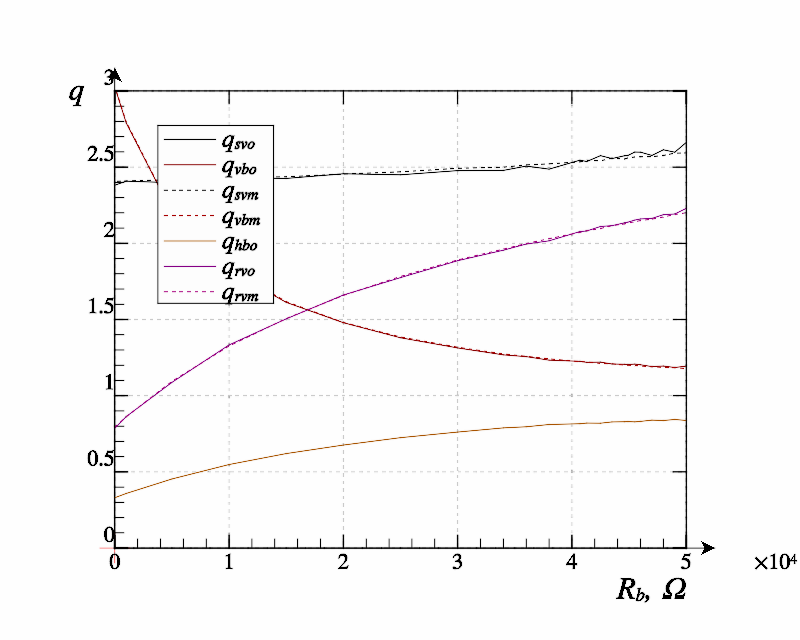
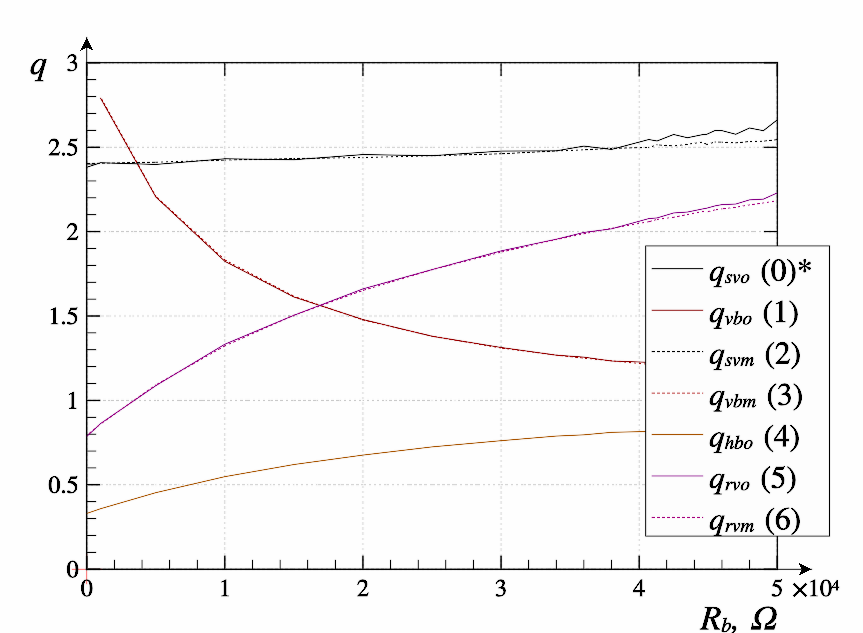
update relax3d criteria pic

diff --git a/atuaref2.tex b/atuaref2.tex
@@ -2626,7 +2626,7 @@ $V_{\mathrm{on},i}$, $V_{\mathrm{off},i}$.
 
 \begin{figure}[htb!]
   \vspace{-1.6ex}
-  \centerline{\includegraphics[width=0.46\textwidth]{p7/p/relax3d_read_q-p_q1_xl.png} }
+  \centerline{\includegraphics[width=0.46\textwidth]{p7/p/relax3d_read_q-p_q1.png} }
   \vspace{-1.2ex}
   \caption{Залежності для розглянутих критеріїв ідентифікації для системи
   релаксаційних генераторів на парі компліментарних транзисторів.
